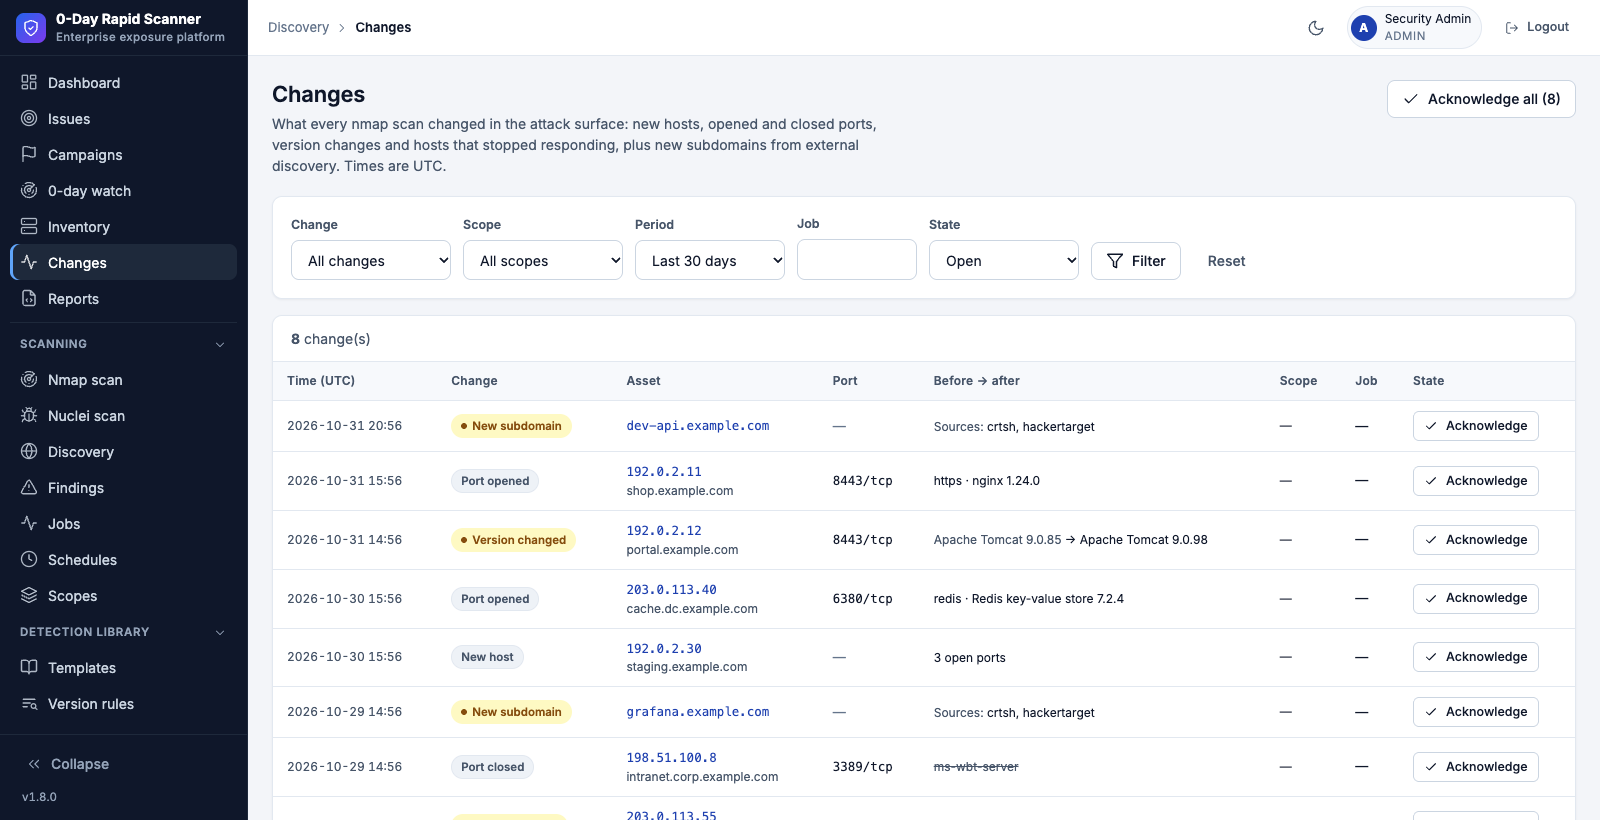
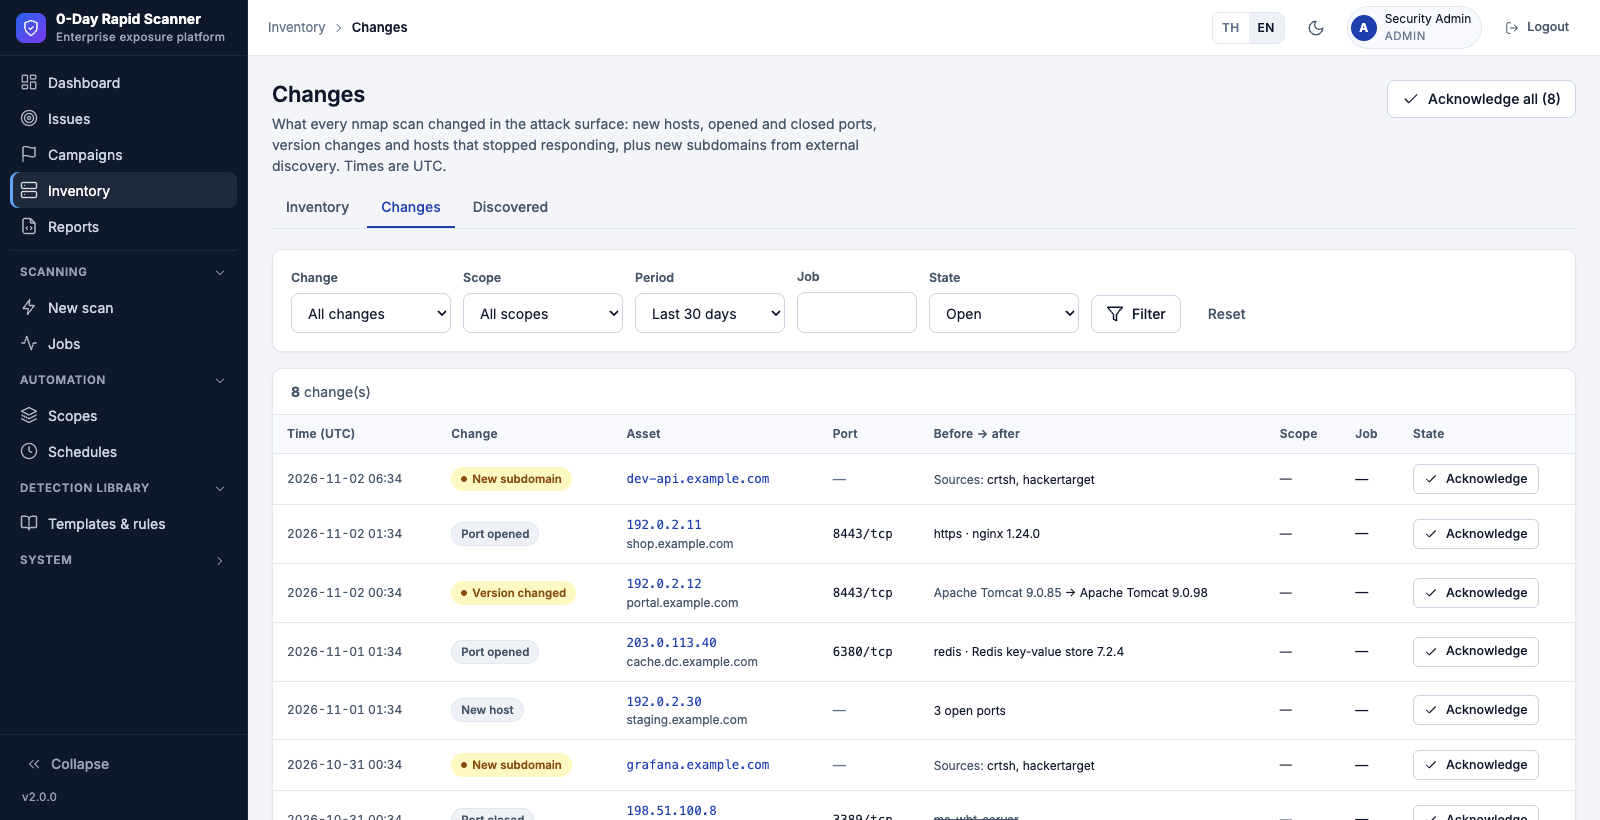
release: 2.0.0 — Thai user interface

diff --git a/app/__init__.py b/app/__init__.py
@@ -1,2 +1,2 @@
 """0-Day Rapid Scanner."""
-__version__ = "1.10.0"
+__version__ = "2.0.0"

diff --git a/docs/USER_GUIDE.th.md b/docs/USER_GUIDE.th.md
@@ -3,7 +3,7 @@
 คู่มือนี้อธิบายการใช้งานตั้งแต่ติดตั้งจนถึงรับมือ 0-day ตัวใหม่ เรียงตามเมนูด้านซ้ายของระบบ
 (English overview: [README](../README.md))
 
-คู่มือนี้ตรงกับ **เวอร์ชัน 1.10.0** ดูเวอร์ชันที่รันอยู่ได้ที่มุมล่างของเมนูด้านซ้าย (คลิกเพื่อเปิด
+คู่มือนี้ตรงกับ **เวอร์ชัน 2.0.0** ดูเวอร์ชันที่รันอยู่ได้ที่มุมล่างของเมนูด้านซ้าย (คลิกเพื่อเปิด
 [CHANGELOG](../CHANGELOG.md)) หรือ `curl http://localhost:8000/healthz`
 
 > **ใช้กับระบบที่คุณเป็นเจ้าของหรือได้รับอนุญาตให้ทดสอบเท่านั้น** เครื่องมือนี้ส่งแพ็กเก็ตไปยังเป้าหมายจริง
@@ -40,7 +40,10 @@ docker compose up -d --build
 1. เปิด <http://localhost:8000>
 2. เข้าสู่ระบบด้วย **admin / changeme**
 3. ระบบบังคับให้ตั้งรหัสผ่านใหม่ (อย่างน้อย 12 ตัวอักษร) ก่อนใช้งานส่วนอื่น
-4. ครั้งแรกที่เปิด ระบบดาวน์โหลด nuclei-templates ทางการลง volume `/data` ดูความคืบหน้าได้ที่ **Scanning → Jobs**
+4. **เปลี่ยนเป็นภาษาไทย**: กดปุ่ม **TH** ที่แถบด้านบน (หรือ Profile → Language) ระบบจำภาษาไว้ให้แต่ละคน ผู้ใช้ใหม่เริ่มที่ภาษาอังกฤษ หน้า login ใช้ภาษาตามเบราว์เซอร์
+5. ครั้งแรกที่เปิด ระบบดาวน์โหลด nuclei-templates ทางการลง volume `/data` ดูความคืบหน้าได้ที่ **Scanning → Jobs**
+
+![หน้าจอภาษาไทย](screenshots/thai-ui.png)
 
 ข้อมูลทั้งหมด (ฐานข้อมูล, template, คีย์เข้ารหัส) อยู่ใน volume `/data` สำรองข้อมูลด้วยการสำรอง volume นี้
 
@@ -75,6 +78,7 @@ docker compose up -d --build
 | Detection library | Templates & rules | Templates · Version rules | nuclei templates และกฎจับเวอร์ชันที่มีช่องโหว่ |
 | System (พับไว้) | Updates, API, Users, Settings, Integrations, AI assistant, Audit log | – | ตั้งค่าและดูแลระบบ |
 
+- หน้าจอเป็นภาษาไทยหรืออังกฤษตามที่แต่ละคนเลือก ข้อมูลจากเครื่องสแกน (ชื่อ CVE, finding, log), API, ไฟล์ export, การแจ้งเตือน และ audit log เป็นภาษาอังกฤษเสมอ ชื่อเมนูในคู่มือนี้ใช้ชื่อภาษาอังกฤษ ถ้าใช้หน้าจอภาษาไทยให้ดูตำแหน่งเมนูเดียวกัน
 - ลิงก์เดิมทุกหน้ายังใช้ได้ (เช่น `/findings`, `/watch`, `/changes`) แค่ย้ายไปเป็นแท็บ
 - **เมนูตามบทบาท**: *Viewer* เห็นแค่ Dashboard, Issues, Campaigns, Inventory, Reports ส่วน *Analyst* ไม่เห็นเมนู System ที่ไม่มีสิทธิ์ อยากเห็นเมนูครบให้ไปที่ **Profile → Show all menu items**
 - คลิกชื่อกลุ่ม (Scanning, Detection library, System) เพื่อเปิดหรือปิด ระบบจำสถานะไว้
@@ -552,7 +556,7 @@ docker compose build --pull --no-cache && docker compose up -d
 docker exec zero-day-rapid-scanner python -c "import sqlite3; s=sqlite3.connect('/data/scanner.db'); d=sqlite3.connect('/data/scanner.db.bak'); s.backup(d)"
 ```
 
-เช็กเวอร์ชันหลังอัปเกรด: `curl http://localhost:8000/healthz` จะได้ `{"status":"ok","version":"1.10.0"}`
+เช็กเวอร์ชันหลังอัปเกรด: `curl http://localhost:8000/healthz` จะได้ `{"status":"ok","version":"2.0.0"}`
 
 ## 14. แก้ปัญหาที่พบบ่อย
 

diff --git a/README.md b/README.md
@@ -1,6 +1,6 @@
 # 0-Day Rapid Scanner
 
-[![Version](https://img.shields.io/badge/version-1.10.0-2563EB.svg)](CHANGELOG.md)
+[![Version](https://img.shields.io/badge/version-2.0.0-2563EB.svg)](CHANGELOG.md)
 [![CI](https://github.com/zildjiean/Vulnerabilty-Rapid-Scanner/actions/workflows/ci.yml/badge.svg)](https://github.com/zildjiean/Vulnerabilty-Rapid-Scanner/actions/workflows/ci.yml)
 [![License: MIT](https://img.shields.io/badge/License-MIT-blue.svg)](LICENSE)
 [![Python 3.12](https://img.shields.io/badge/python-3.12-blue.svg)](https://www.python.org/)
@@ -18,6 +18,9 @@ Everything runs in one container. No external services, no accounts, works offli
 
 - **Quick scan**: enter targets, press Start — nmap finds open services, then nuclei checks them with the
   *Recommended* preset (or *Thorough*: all ports + every check). Nothing to configure; also via `POST /api/v1/scans/quick`.
+- **Thai and English interface**: each user picks ไทย / English (top-bar switch or Profile); new users start in
+  English and the sign-in page follows the browser language. Scanner data, API, exports, notifications and the audit
+  log stay English. Bundled IBM Plex Sans Thai font, no external requests.
 - **Focused navigation**: related pages share tabs (Issues | Raw findings, Campaigns | 0-day watch, Inventory |
   Changes | Discovered, New scan: Quick | Nmap | Nuclei | Discovery, Templates | Version rules); the sidebar shows
   what each role uses (viewers: five items) with *Show all menu items* on the profile.
@@ -104,8 +107,8 @@ Everything runs in one container. No external services, no accounts, works offli
 | ![Proof](docs/screenshots/proof.png) | ![Verification template](docs/screenshots/verify-template.png) |
 | **Quick scan** | **Get started checklist** |
 | ![Quick scan](docs/screenshots/quick-scan.png) | ![Get started](docs/screenshots/get-started.png) |
-| **Issue Next step** | |
-| ![Next step](docs/screenshots/next-step.png) | |
+| **Issue Next step** | **Thai interface** |
+| ![Next step](docs/screenshots/next-step.png) | ![Thai UI](docs/screenshots/thai-ui.png) |
 | **Attack-surface changes** | **External asset discovery** |
 | ![Changes](docs/screenshots/changes.png) | ![Discovery](docs/screenshots/discovery.png) |
 

diff --git a/CHANGELOG.md b/CHANGELOG.md
@@ -6,6 +6,23 @@ All notable changes to this project are documented here. The format follows
 
 ## [Unreleased]
 
+## [2.0.0] - 2026-11-02
+
+### Added
+- **Thai user interface.** Each user chooses ไทย / English with the switch in the top bar or on the Profile page
+  (`users.language`, default English); the sign-in page follows the browser's `Accept-Language`. Every page, tab,
+  button, form, help text, confirm dialog, flash and validation message, chart label and the in-browser reports
+  are translated (about 1,700 strings). Technical terms stay in English inside Thai sentences, as in the Thai guide.
+- Bundled **IBM Plex Sans Thai** (SIL OFL 1.1) for Thai text only; no external font requests.
+
+### Changed
+- Breadcrumbs on the System pages read "System" (was "Administration"); the error page shows the role label.
+- Scanner and intel data, AI output, the REST API, CSV / JSON exports, notifications, tickets and the audit log stay
+  English whatever the user's language.
+
+Version 2.0.0 marks the end of the usability round (1.9.0 Quick scan, 1.10.0 navigation, 2.0.0 Thai UI). There are
+no breaking changes to the API or stored data.
+
 ## [1.10.0] - 2026-11-02
 
 ### Changed
@@ -316,7 +333,8 @@ First stable release: the scanner from 0.1.0 grows into a vulnerability-response
 - Single-container deployment (python:3.12-slim + nmap + nuclei, non-root).
 - Enterprise UI: sidebar shell, light/dark theme, KPI cards, sortable tables, toasts, confirm dialogs.
 
-[Unreleased]: https://github.com/zildjiean/Vulnerabilty-Rapid-Scanner/compare/v1.10.0...HEAD
+[Unreleased]: https://github.com/zildjiean/Vulnerabilty-Rapid-Scanner/compare/v2.0.0...HEAD
+[2.0.0]: https://github.com/zildjiean/Vulnerabilty-Rapid-Scanner/compare/v1.10.0...v2.0.0
 [1.10.0]: https://github.com/zildjiean/Vulnerabilty-Rapid-Scanner/compare/v1.9.0...v1.10.0
 [1.9.0]: https://github.com/zildjiean/Vulnerabilty-Rapid-Scanner/compare/v1.8.0...v1.9.0
 [1.8.0]: https://github.com/zildjiean/Vulnerabilty-Rapid-Scanner/compare/v1.7.0...v1.8.0
